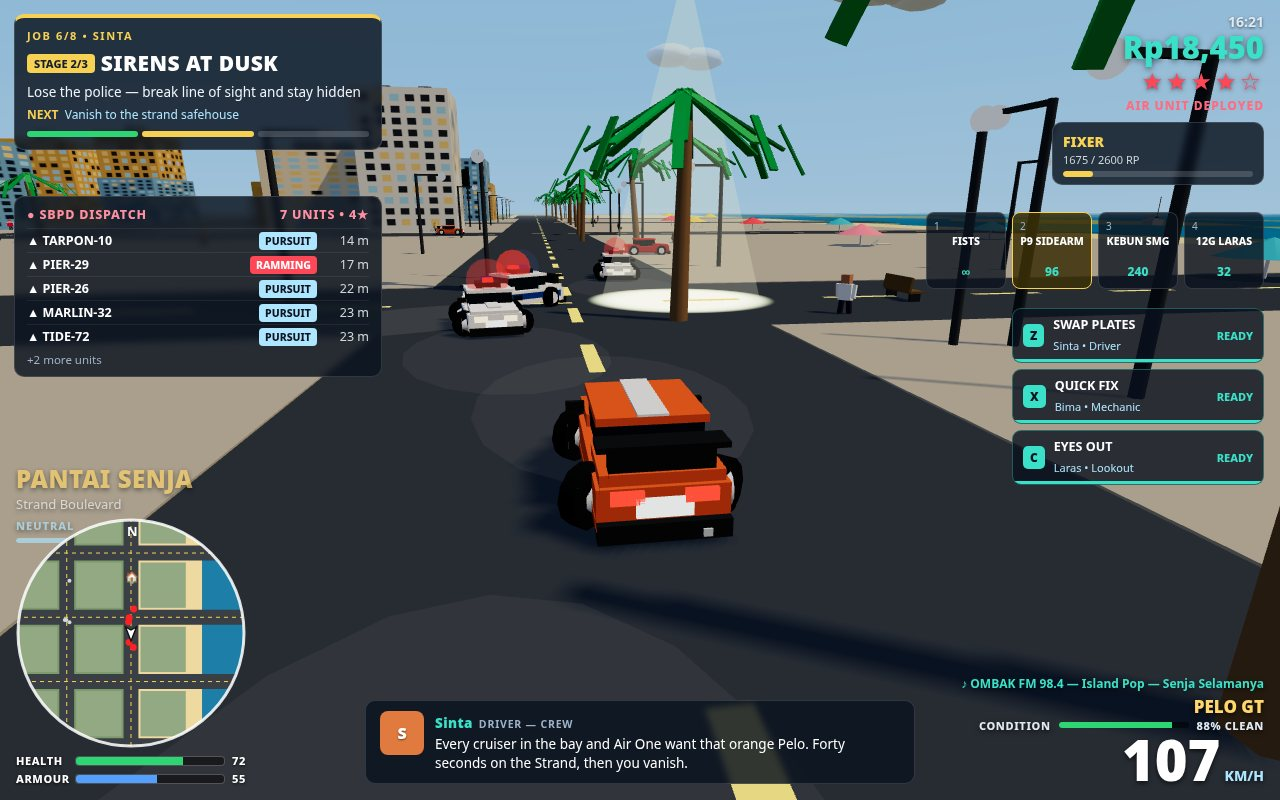
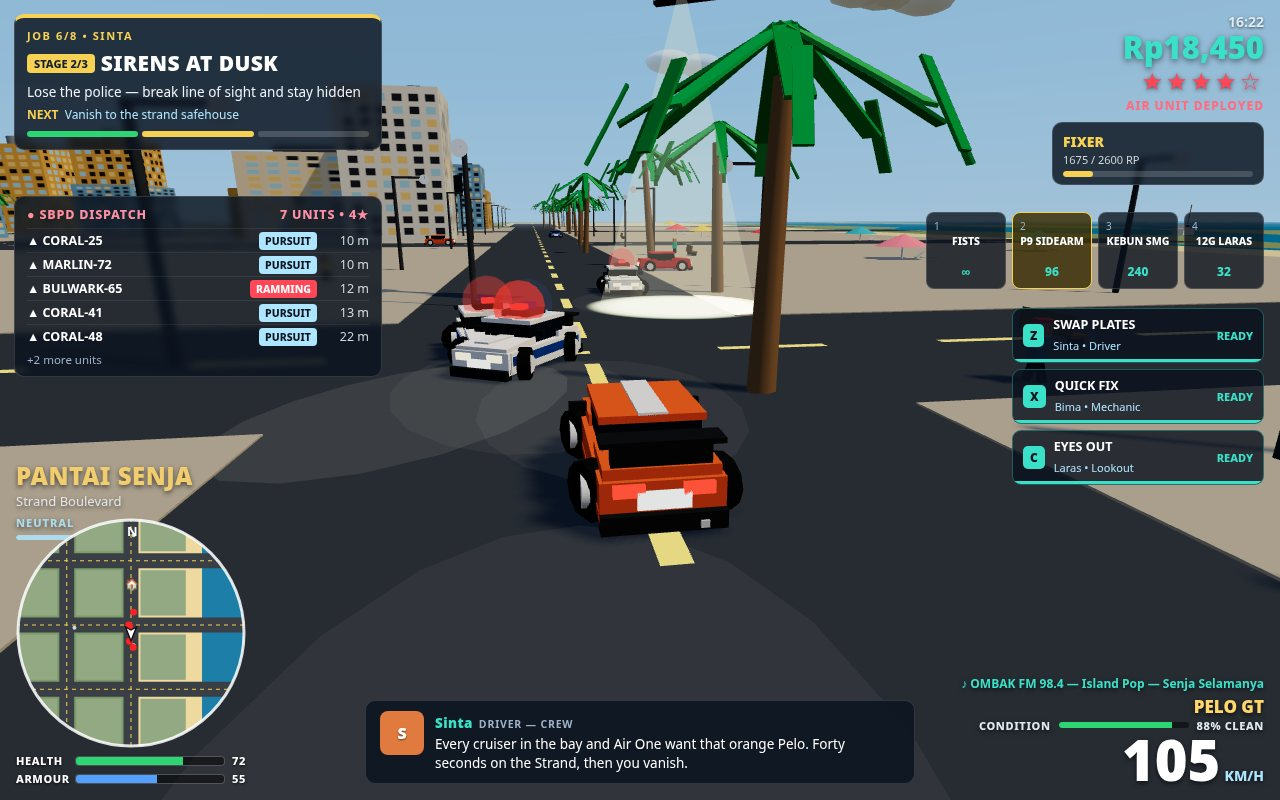
Senja Bay Heat v2 staging fix: market aisle, tighter hills, cover palm

diff --git a/game/src/shots.js b/game/src/shots.js
@@ -10,7 +10,9 @@ export function stageScene(name, api) {
       api.setClock(16.35);
       api.setStats({ money: 18450, respect: 1675, health: 72, armor: 55 });
       api.startJobAt(5, 1);                    // SIRENS AT DUSK, escape stage
-      api.placeInCar("Pelo GT", 285, 30, Math.PI, 31); // heading north up the strand road
+      api.placeInCar("Pelo GT", 285, 22, Math.PI, 31); // heading north up the strand road
+      // (car sits 8 m south of the z=30 palm row so no clipped crown
+      // hangs into the top-right of the frame)
       api.setCamOffset(-0.42);
       api.setWanted(4, true);
       api.spawnChasePack(4, 16);
@@ -27,19 +29,23 @@ export function stageScene(name, api) {
       break;
     }
     case "market": {
-      // On-foot combat in the night market, second stage of MARKET SQUEEZE.
-      api.setClock(18.58);
+      // On-foot combat INSIDE the night market: Raka stands in the aisle
+      // between the z=126 stall row (fronts + signs facing him) and the
+      // z=160 row (backs + awnings receding on the right), looking east
+      // down the aisle into the Kerang Boys the clear stage spawns.
+      api.setClock(19.3);
       api.setStats({ money: 7270, respect: 940, health: 95, armor: 27 });
       api.startJobAt(1, 1);                    // clear-the-aisles stage (spawns hostiles)
-      api.placeOnFoot(-238, 146, Math.PI);     // facing the stall rows, signs toward camera
-      api.setCamOffset(0.15);
-      api.addPed(-234, 140, {});
-      api.addPed(-230, 141, {});
+      api.placeOnFoot(-248, 148, 2.65);        // in the aisle, facing NE into the stall row
+      api.setCamOffset(0);
+      // Kerang Boys posted in the aisle, already in SMG range of Raka.
+      api.addPed(-236, 138, { hostile: true, gun: true, shirt: 0x6c3483, vest: true });
+      api.addPed(-240, 134, { hostile: true, gun: true, shirt: 0x6c3483, vest: true });
+      api.addPed(-246, 132, { hostile: true, gun: true, shirt: 0x6c3483, vest: true });
       // Shoppers threading the aisle between the lit stalls.
-      api.addPed(-224, 138, {});
-      api.addPed(-226, 122, {});
-      api.addPed(-196, 128, {});
-      api.parkCar("Bemo Pickup", -160, 84, 0.4);
+      api.addPed(-252, 138, {});
+      api.addPed(-243, 137, {});
+      api.parkCar("Bemo Pickup", -156, 143, 1.35);
       api.selectWeapon("smg");
       api.setWanted(2, true);
       api.spawnFootPack(2);
@@ -68,14 +74,16 @@ export function stageScene(name, api) {
     case "hills": {
       // On foot on the Bukit Kapur road at dusk, ledger job, looking back
       // across the whole lit bay toward the gold objective marker.
-      api.setClock(18.3);
+      api.setClock(18.6);
       api.setStats({ money: 11980, respect: 1340, health: 88, armor: 40 });
       api.startJobAt(4, 0);
-      api.placeOnFoot(-262, -288, 0.77);
-      api.parkCar("Senja Coupe", -248, -268, 0.8);
-      api.parkCar("Taksi Senja", -232, -252, 0.9);
-      api.addPed(-252, -278, {});
-      api.addPed(-244, -262, { hat: 0xe9c46a });
+      api.placeOnFoot(-250, -272, 0.88);
+      api.parkCar("Senja Coupe", -246, -266, 0.8);
+      api.parkCar("Taksi Senja", -234, -254, 0.9);
+      api.addPed(-244, -268, {});
+      api.addPed(-240, -262, { hat: 0xe9c46a });
+      api.addPed(-237, -273, {});
+      api.addPed(-230, -252, {});
       api.selectWeapon("pistol");
       api.dialogue("Laras", "LOOKOUT — CREW", "That's his car below — blue coupe, bookkeeper in the back. His escort drives fast. His brakes do not.");
       break;
